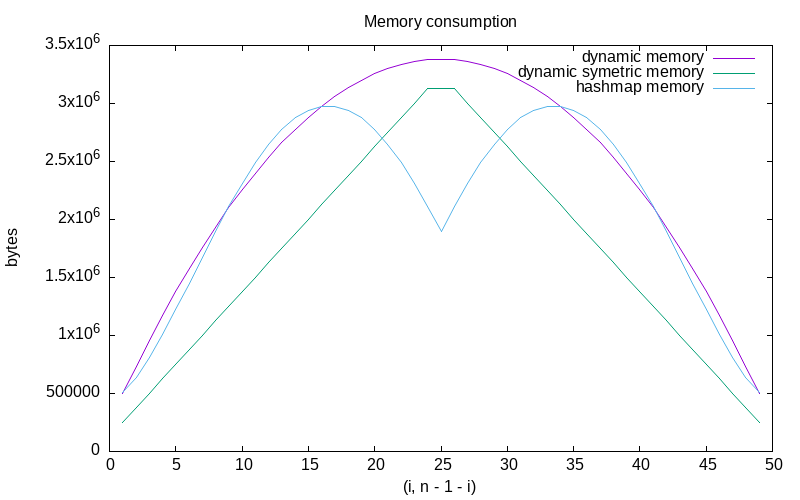
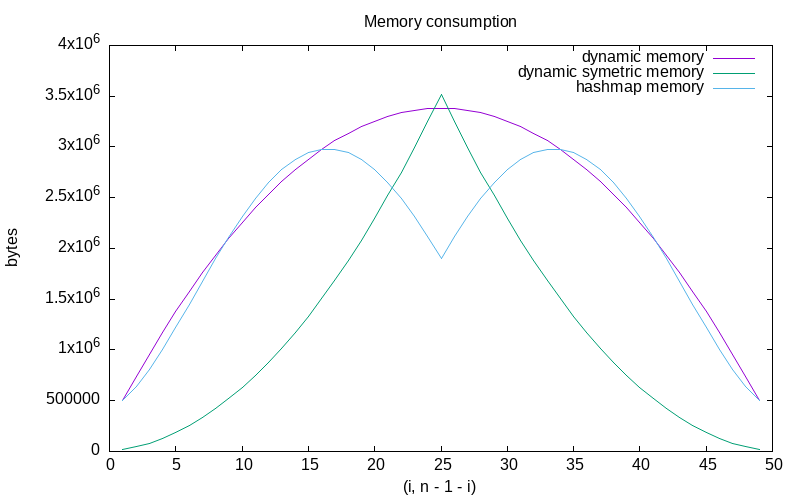
finito TP2

diff --git a/TP2/tablet.c b/TP2/tablet.c
@@ -90,9 +90,9 @@ int calculate_max(int configurations_res[], int n)
 
 void print_tablet(tablet_t tablet)
 {
-   for (int i = 0; i < tablet.n; i++)
+   for (int j = 0; j < tablet.n; j++)
    {
-      for (int j = 0; j < tablet.m; j++)
+      for (int i = 0; i < tablet.m; i++)
       {
          if (i == tablet.point.i && j == tablet.point.j)
          {
@@ -229,6 +229,7 @@ tablet_t get_symetric_tablet_dimension(tablet_t tablet)
    j = MIN(j, n - 1 - j);
    return (tablet_t){m, n, {i, j}};
 }
+
 int calculate_configuration_dynamic_symetric(tablet_t tablet, int16_t ****tab)
 {
    if (tablet.m == 1 && tablet.n == 1)
@@ -259,10 +260,10 @@ int calculate_configuration_dynamic_symetric(tablet_t tablet, int16_t ****tab)
 int calculate_configuration_dynamic_init_symetric(tablet_t tablet)
 {
    tablet_t symetric_dimensions = get_symetric_tablet_dimension(tablet);
-   int m = symetric_dimensions.m - 1;
-   int n = symetric_dimensions.n - 1;
-   int i = MIN(symetric_dimensions.m / 2, tablet.point.i + 1);
-   int j = MIN(symetric_dimensions.n / 2, tablet.point.j + 1);
+   int m = symetric_dimensions.m - 1 / 2;
+   int n = symetric_dimensions.n - 1 / 2;
+   int i = symetric_dimensions.point.i + 1;
+   int j = symetric_dimensions.point.j + 1;
    int16_t ****array = init_array(m, n, i, j);
    int res = calculate_configuration_dynamic_symetric(tablet, array);
    free_array(array, m, n, i, j);
@@ -273,6 +274,7 @@ int calculate_configuration_dynamic_init_symetric(tablet_t tablet)
 
 int table_size = TABLE_3; // Change the hash depending on the tablet size.
                           // TABLE_1 for m and n < 25, TABLE_2 < 50, and TABLE_3 < 150
+                          // it's more than that actually what matters also is the range between i and j in the tablet point
 
 unsigned int hash_tablet(tablet_t tablet)
 {
@@ -370,43 +372,57 @@ void game(tablet_t tablet)
 {
    int player = 1;
    int m, n, i, j;
-
+   char played = 0;
    while (tablet.m > 1 || tablet.n > 1)
    {
       if (player == 1)
       {
          char c;
          int i;
-         printf("Enter h or v and a number\n");
+         printf("Enter h (horizontal) or v (vertical) and a number\n");
          scanf("%c %d", &c, &i);
          if (c == 'h')
          {
-            if (i <= tablet.point.i)
+            if (i < tablet.m)
             {
-               tablet.m = tablet.m - i;
-               tablet.point.i = tablet.point.i - i;
+               if (i <= tablet.point.i)
+               {
+                  tablet.m = tablet.m - i;
+                  tablet.point.i = tablet.point.i - i;
+               }
+               else
+               {
+                  tablet.m = i;
+               }
+               played = 1;
             }
             else
             {
-               tablet.m = i;
+               played = 0;
             }
          }
          else if (c == 'v')
          {
-            if (i <= tablet.point.j)
+            if (i < tablet.n)
             {
-               tablet.n = tablet.n - i;
-               tablet.point.j = tablet.point.j - i;
+               if (i <= tablet.point.j)
+               {
+                  tablet.n = tablet.n - i;
+                  tablet.point.j = tablet.point.j - i;
+               }
+               else
+               {
+                  tablet.n = i;
+               }
+               player = -player;
+               printf("The value of the played configuration is %d\n", calculate_configuration_dynamic_init_symetric(tablet));
             }
             else
             {
-               tablet.n = i;
+               played = 0;
             }
          }
-         printf("La valeur de la configuration jouée est de %d\n", calculate_configuration_dynamic_init_symetric(tablet));
-         player = -player;
       }
-
       else
       {
          tablet_t symetric_dimensions = get_symetric_tablet_dimension(tablet);
@@ -423,11 +439,19 @@ void game(tablet_t tablet)
          tuple_t max_index = calculate_max_with_index(configurations_res, tablet.m - 1 + tablet.n - 1);
          tablet = tablets[max_index.i];
          array[symetric_dimensions.m][symetric_dimensions.n][symetric_dimensions.point.i][symetric_dimensions.point.j] = max_index.j;
-         printf("La valeur de la configuration jouée est de %d\n", max_index.j);
-         player = -player;
+         played = 1;
          free_array(array, symetric_dimensions.m, symetric_dimensions.n, symetric_dimensions.point.i + 1, symetric_dimensions.point.j + 1);
       }
-      printf("Les dimensions de la tablette sont maintenant de (%d, %d), (%d, %d)\n\n", tablet.m, tablet.n, tablet.point.i, tablet.point.j);
-      print_tablet(tablet);
+      if (played)
+      {
+         player = -player;
+         printf("The value of the played configuration is %d\n", calculate_configuration_dynamic_init_symetric(tablet));
+         printf("The tablet dimensions are now (%d, %d), (%d, %d)\n\n", tablet.m, tablet.n, tablet.point.i, tablet.point.j);
+         print_tablet(tablet);
+      }
+      else
+      {
+         printf("Please enter a valid input\n");
+      }
    }
 }

diff --git a/TP2/main.c b/TP2/main.c
@@ -32,18 +32,17 @@ int main(int argc, char **argv)
       tablet.point.i = i;
       tablet.point.j = j;
    }
-   // calculate_all_configurations_equals_x(tablet, 127);
 
    int res;
    clock_t start, end;
    double cpu_time_used;
-
    /*
-      start = clock();
-      res = calculate_configuration(tablet);
-      end = clock();
-      cpu_time_used = ((double)(end - start)) / CLOCKS_PER_SEC;
-      printf("Basic recursive : %d, time : %lf\n", res, cpu_time_used);
+   start = clock();
+   res = calculate_configuration(tablet);
+   end = clock();
+   cpu_time_used = ((double)(end - start)) / CLOCKS_PER_SEC;
+   printf("Basic recursive : %d, time : %lf seconds\n", res, cpu_time_used);
+   printf("recur %d\n", memory_used);
    */
 
    memory_used = 0;
@@ -51,22 +50,22 @@ int main(int argc, char **argv)
    res = calculate_configuration_dynamic_init(tablet);
    end = clock();
    cpu_time_used = ((double)(end - start)) / CLOCKS_PER_SEC;
-   printf("Dynamic : %d, time : %lf, memory used : %d bytes\n", res, cpu_time_used, memory_used);
+   printf("Dynamic : %d, time : %lf seconds, memory used : %d bytes\n", res, cpu_time_used, memory_used);
 
    memory_used = 0;
    start = clock();
    res = calculate_configuration_dynamic_init_symetric(tablet);
    end = clock();
    cpu_time_used = ((double)(end - start)) / CLOCKS_PER_SEC;
-   printf("Dynamic symetric : %d, time : %lf, memory used : %d bytes\n", res, cpu_time_used, memory_used);
+   printf("Dynamic symetric : %d, time : %lf seconds, memory used : %d bytes\n", res, cpu_time_used, memory_used);
 
    memory_used = 0;
    start = clock();
    res = calculate_configuration_hash_init(tablet);
    end = clock();
    cpu_time_used = ((double)(end - start)) / CLOCKS_PER_SEC;
-   printf("Hashmap : %d, time : %lf, memory used : %d bytes\n", res, cpu_time_used, memory_used);
+   printf("Hashmap : %d, time : %lf seconds, memory used : %d bytes\n", res, cpu_time_used, memory_used);
 
-   // game(tablet);
+   game(tablet);
    return 0;
 }

diff --git a/TP2/lib.c b/TP2/lib.c
@@ -38,21 +38,3 @@ void free_array(int16_t ****array, int m, int n, int i, int j)
    }
    free(array);
 }
-
-void print_array(int16_t ****array, int m, int n, int i, int j)
-{
-   for (int x = 0; x < m; x++)
-   {
-      printf("\n");
-      for (int y = 0; y < n; y++)
-      {
-         for (int k = 0; k < i; k++)
-         {
-            for (int l = 0; l < j; l++)
-            {
-               printf("%d ", array[x][y][k][l]);
-            }
-         }
-      }
-   }
-}

diff --git a/TP2/readme.md b/TP2/readme.md
@@ -15,12 +15,7 @@ j l'ordonnée du carré de la mort
 
 ### Q2)
 
-```
-    -3
-+1  +2  +1
-  -1
-     0
-```
+![Q2](./images/Q2.png)
 
 ### Q3)
 
@@ -28,7 +23,7 @@ On itère sur toutes les coupes possibles c'est à dire de (1 à x-1) + (1 à y 
 
 Et donc, pour tout k allant de 1 à (x - 1) ou (y - 1), la nouvelle tablette sera soit (m, n - k) ou (m - k, n), le carré de la mort serait (i - k, j) ou (i, j - k).
 
-On aurait x + y configurations différentes.
+On aurait x + y - 2 configurations différentes.
 
 ### Q4)
 
@@ -37,28 +32,34 @@ On prend le 1 - max(successeurs) dans le cas où tous les successeurs sont posit
 $P(successors) =
      \begin{cases}
        0 & \text{si x = 0} \\
-       1 - \max(negsuccessors) & \exists x \in successors, x < 0; negsuccessors \in successors \cap Z^− \\
+       1 - \max(negsuccessors) & \exists x \in successors, x < 0; negsuccessors \subset successors \cap Z^− \\
        - (1 + \max(successors)) & \text{sinon}
      \end{cases}
 $
 
 ### Q5)
 
-voir fonction **calculate_max** dans _tablet.c_.
+Voir algorithme **calculate_configuration** dans _tablet.c_.
 
 ### Q6)
 
+![Q6](./images/Q6.png)
+
 ### Q7)
 
-Avec la version récursive simple (sans tableau), on a :
+Plus le carré de la mort est au centre de la tablette, plus la réduction de la tablette sera lente. Les sous-tablettes seront plus grandes. Si le carré de la mort est disposé loin du centre, la réduction de la tablette à chaque découpe sera plus grande,
+on aura beaucoup moins d'appels récursifs.
 
-(10, 7) (7, 3) : 5.760348 secondes
+On a à chaque fois m + n - 2 appels récursifs à chaque tour, soit (m + n - 2) * ((m - 1) + (n - 1) - 2) * ((m - 2) + (n - 2) - 2), jusqu'à arriver à une tablette de taille (1, 1).
 
-(10, 7) (5, 3) : 12.730570 secondes
+La profondeur de l'arbre de récursion est au plus m + n (car chaque coupe réduit soit m soit n de 1).
+Cela donne un arbre de décision dont le nombre de noeuds est de l'ordre de $O(2^{m+n})$. La complexité de l'algorithme est donc bien exponentielle.
 
 ### Q8)
 
 On peut utiliser un tableau de taille $m * n * i * j$ avec m la largeur de la tablette, n sa longueur, i l'abscisse du carré de la mort et j son ordonnée, comme ça si une configuration (x, y) (k, l) a déjà été calculée, pas besoin de la recalculer, on récupère sa valeur dans le tableau à l'indice [x][y][k][l].
+
+Voir algorithme **calculate_configuration_dynamic** dans _tablet.c_.
 
 ### Q9)
 
@@ -75,13 +76,15 @@ Les configurations permettant d'obtenir 127 avec une tablette de taille (127, 12
 - (63, 0)
 - (0, 63)
 
-On remarque qu'on obtient les configurations qui se trouvent sur le milieu des côtés de la tablette.
+On remarque qu'on obtient les configurations qui se trouvent au milieu des côtés de la tablette.
+
+Voir algorithme **find_pairs_with_value_x** dans _experiments.c_.
 
 ### Q11)
 
-On initialise un seul tableau de taille (127, 127), (127, 127) et on l'utilise pour calculer toutes les configurations de (127, 127) (0, 0) à (127, 127) (126, 126).
+On initialise un seul tableau de taille (m, n, m / 2 + 1, n / 2 + 1) avec m = 127 et n = 127 ici et on l'utilise pour calculer toutes les configurations possibles de 0 à m / 2 + 1 et de 0 à n / 2 + 1, on est pas obligé de parcourir de 0 à m et 0 à n car on peut jouer sur les symétries pour diviser par 4 les calculs.
 
-On a donc une complexité en espace en $O(m^2 * n^2)$
+On a donc une complexité en espace en $θ(m * n * (m / 2 + 1) * (n / 2 + 1))$ soit $O(m^2 * n^2)$
 
 ### Q12)
 
@@ -90,6 +93,10 @@ Toutes ces configurations sont symétriques, soit par rotation, soit par symétr
 Par exemple, une tablette $m * n$ avec un point (i, j) tourne en $n * m$, avec les coordonnées du point modifiées, mais le nombre de configurations enfants ne change pas.
 
 Les symétries axiales ne changent pas les configurations possibles. La tablette est symétriquement équivalente. Par exemple, pour une symétrie par rapport à une diagonale, le point (i, j) devient (m − 1 − i, n - 1 - j), mais le problème reste le même.
+
+### Q13)
+
+Voir algorithme **calculate_configuration_dynamic_symetric** dans _tablet.c_.
 
 ### Q14)
 
@@ -113,11 +120,15 @@ Avec :
 
 L'espace gagné ne dépend donc que de i et j, plus i et j vont se rapprocher de $m / 2$ et $n / 2$, moins on gagnera d'espace.
 Pour i = m / 2 et j = n / 2 avec n et m impairs, on ne gagne pas d'espace car il n'y a pas de symétries.
-Le meilleur des cas (celui où les symétries permettent de gagner le plus de mémoire) est donc celui où i et j sont à la même distance de m pour i et n pour j. Par exemple pour une tablette de (100, 100), la configuration où on gagne le plus de mémoire sera (25, 75), car on passe de $100 * 100 * 25 * 75 = 18750000$ à $100 * 100 * 25 * 25 = 6250000$, on divise l'espace mémoire par le quotient du maximum de i et j par le minimum de i et j ($(\max{i, j}) / (\min{i, j})$).
+Le meilleur des cas (celui où les symétries permettent de gagner le plus de mémoire) est donc celui où i et j sont à la même distance de m pour i et n pour j. Par exemple pour une tablette de (100, 100), la configuration où on gagne le plus de mémoire sera (25, 75), car on passe de $100 * 100 * 25 * 75 = 18750000$ à $100 * 100 * 25 * 25 = 6250000$, on divise l'espace mémoire par $(\max{i, j}) / (\min{i, j})$. (Dans le cas réel, il faut multiplier la mémoire utilisée par deux car on utilise des entiers de deux octets).
 
 On a une complexité en $0(m * n * i'' * j'')$
 
-D'après les expérimentations (voir _experiments.c_), on a une accélération du programme d'environ 230% et on utilise environ 50% de mémoire en moins en utilisant les symétries.
+On peut aussi utiliser une table de hachage, qui permettrait de gagner en mémoire en échange de temps de calculs.
+
+Voir algorithme **calculate_configuration_hashmap** dans _tablet.c_.
+
+Voici quelques graphiques pour comparer les différents algorithmes en temps et en espace.
 
 ![Memory consumption](./images/memory_consumption.png)
 
@@ -125,5 +136,12 @@ La mémoire est multipliée par deux car on utilise des entiers de deux octets d
 
 ![Time consumption](./images/cpu_time_consumption.png)
 
+![Comparison](./images/comparison.png)
 
-![Time consumption](./images/comparison.png)
+### Q15)
+
+Voir algorithme **game** dans _tablet.c_.
+
+### Q16)
+
+Le jeu de la tablette est similaire au jeu de Nim car, dans les deux cas, les joueurs alternent pour effectuer des coups qui modifient la configuration de jeu, le but étant de forcer son adversaire à se retrouver dans une position perdante. De plus, les configurations peuvent être analysées et on peut leur attribuer une valeur gagnante ou perdante.
